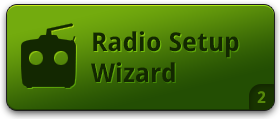
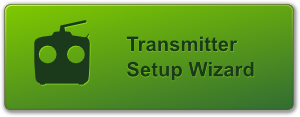
OP-1556 New "transmitter Setup Wizard" button, fixed mouseover. Updated text and translations

diff --git a/ground/openpilotgcs/share/openpilotgcs/translations/openpilotgcs_fr.ts b/ground/openpilotgcs/share/openpilotgcs/translations/openpilotgcs_fr.ts
@@ -3792,13 +3792,28 @@ uniquement lorsque les valeurs changent</translation>
         <translation>Flot Données GPS</translation>
     </message>
     <message>
-        <location/>
         <source>Displays the SNR for each detected sat.
 Satellite number (PRN) is displayed inside the green bar.
 Sat SNR is displayed above (in dBHz)</source>
-        <translation>Affiche le SNR pour chaque satellite détecté.
+        <translation type="vanished">Affiche le SNR pour chaque satellite détecté.
 Le numéro du satellite (PRN) est affiché sur une barre verte.
 Le SNR du satellite est affiché au-dessus (en dBHz)</translation>
+    </message>
+    <message>
+        <location/>
+        <source>&lt;html&gt;&lt;head/&gt;&lt;body&gt;&lt;p&gt;Displays the SNR for each detected sat. Satellite number (PRN) is displayed inside the green bar (GPS) or orange bar (SBAS). Sat SNR is displayed above (in dBHz)&lt;/p&gt;&lt;/body&gt;&lt;/html&gt;</source>
+        <translation>&lt;html&gt;&lt;head/&gt;&lt;body&gt;&lt;p&gt;Affiche le SNR pour chaque satellite détecté. Le numéro du satellite (PRN) est affiché sur une barre verte (GPS) ou orange (SBAS). Le SNR du satellite est affiché au-dessus (en dBHz)</translation>
+    </message>
+    <message>
+        <location/>
+        <source>Alt :</source>
+        <translation>Alt :</translation>
+    </message>
+    <message>
+        <location/>
+        <source>&lt;html&gt;&lt;head/&gt;&lt;body&gt;&lt;p&gt;Location of GCS on the Earth&lt;/p&gt;&lt;/body&gt;&lt;/html&gt;</source>
+        <extracomment>Location of GCS on the Earth</extracomment>
+        <translation>Position sur la terre</translation>
     </message>
 </context>
 <context>
@@ -9520,14 +9535,14 @@ Veuillez sélectionner le type de multirotor désiré pour la configuration ci-d
     </message>
     <message>
         <location/>
-        <location filename="../../../src/plugins/setupwizard/pages/outputcalibrationpage.cpp" line="+376"/>
-        <location line="+88"/>
+        <location filename="../../../src/plugins/setupwizard/pages/outputcalibrationpage.cpp" line="+375"/>
+        <location line="+90"/>
         <source>Start</source>
         <translation>Démarrer</translation>
     </message>
     <message>
-        <location filename="../../../src/plugins/setupwizard/pages/outputcalibrationpage.cpp" line="-88"/>
-        <location line="+88"/>
+        <location filename="../../../src/plugins/setupwizard/pages/outputcalibrationpage.cpp" line="-90"/>
+        <location line="+90"/>
         <source>Stop</source>
         <translation>Arrêter</translation>
     </message>
@@ -13489,7 +13504,6 @@ loaded in the current workspace.</source>
 Configuration n&apos;est pas chargé dans l&apos;espace de travail actuel.</translation>
     </message>
     <message>
-        <location filename="../../../src/plugins/setupwizard/pages/opendpage.ui"/>
         <source>&lt;!DOCTYPE HTML PUBLIC &quot;-//W3C//DTD HTML 4.0//EN&quot; &quot;http://www.w3.org/TR/REC-html40/strict.dtd&quot;&gt;
 &lt;html&gt;&lt;head&gt;&lt;meta name=&quot;qrichtext&quot; content=&quot;1&quot; /&gt;&lt;style type=&quot;text/css&quot;&gt;
 p, li { white-space: pre-wrap; }
@@ -13498,7 +13512,7 @@ p, li { white-space: pre-wrap; }
 &lt;p align=&quot;center&quot; style=&quot; margin-top:12px; margin-bottom:12px; margin-left:0px; margin-right:0px; -qt-block-indent:0; text-indent:0px;&quot;&gt;&lt;span style=&quot; font-family:&apos;MS Shell Dlg 2&apos;; font-size:12pt; font-weight:600;&quot;&gt;Setup wizard is completed.&lt;/span&gt;&lt;/p&gt;
 &lt;p style=&quot; margin-top:12px; margin-bottom:12px; margin-left:0px; margin-right:0px; -qt-block-indent:0; text-indent:0px;&quot;&gt;&lt;span style=&quot; font-family:&apos;MS Shell Dlg 2&apos;; font-size:10pt;&quot;&gt;This part of the setup procedure is now complete and you are one step away from completing the setup of your OpenPilot controller.&lt;/span&gt;&lt;/p&gt;
 &lt;p style=&quot; margin-top:12px; margin-bottom:12px; margin-left:0px; margin-right:0px; -qt-block-indent:0; text-indent:0px;&quot;&gt;&lt;span style=&quot; font-family:&apos;MS Shell Dlg 2&apos;; font-size:10pt;&quot;&gt;To complete the setup please click the Radio Setup Wizard button below to close this wizard and go directly to the Radio Setup Wizard.&lt;/span&gt;&lt;/p&gt;&lt;/body&gt;&lt;/html&gt;</source>
-        <translation>&lt;!DOCTYPE HTML PUBLIC &quot;-//W3C//DTD HTML 4.0//EN&quot; &quot;http://www.w3.org/TR/REC-html40/strict.dtd&quot;&gt;
+        <translation type="vanished">&lt;!DOCTYPE HTML PUBLIC &quot;-//W3C//DTD HTML 4.0//EN&quot; &quot;http://www.w3.org/TR/REC-html40/strict.dtd&quot;&gt;
 &lt;html&gt;&lt;head&gt;&lt;meta name=&quot;qrichtext&quot; content=&quot;1&quot; /&gt;&lt;style type=&quot;text/css&quot;&gt;
 p, li { white-space: pre-wrap; }
 &lt;/style&gt;&lt;/head&gt;&lt;body style=&quot; font-family:&apos;Cantarell&apos;; font-size:11pt; font-weight:400; font-style:normal;&quot;&gt;
@@ -13506,6 +13520,25 @@ p, li { white-space: pre-wrap; }
 &lt;p align=&quot;center&quot; style=&quot; margin-top:12px; margin-bottom:12px; margin-left:0px; margin-right:0px; -qt-block-indent:0; text-indent:0px;&quot;&gt;&lt;span style=&quot; font-family:&apos;MS Shell Dlg 2&apos;; font-size:12pt; font-weight:600;&quot;&gt;L&apos;Assistant de Configuration est terminé.&lt;/span&gt;&lt;/p&gt;
 &lt;p style=&quot; margin-top:12px; margin-bottom:12px; margin-left:0px; margin-right:0px; -qt-block-indent:0; text-indent:0px;&quot;&gt;&lt;span style=&quot; font-family:&apos;MS Shell Dlg 2&apos;; font-size:10pt;&quot;&gt;Cette partie de la procédure de configuration est maintenant terminée et il vous reste une étape pour arriver au terme de la configuration de votre contrôleur OpenPilot.&lt;/span&gt;&lt;/p&gt;
 &lt;p style=&quot; margin-top:12px; margin-bottom:12px; margin-left:0px; margin-right:0px; -qt-block-indent:0; text-indent:0px;&quot;&gt;&lt;span style=&quot; font-family:&apos;MS Shell Dlg 2&apos;; font-size:10pt;&quot;&gt;Pour terminer la configuration veuillez appuyer sur le bouton ci-dessous pour fermer cet assistant et aller directement à l&apos;Assistant de Configuration Radio.&lt;/span&gt;&lt;/p&gt;&lt;/body&gt;&lt;/html&gt;</translation>
+    </message>
+    <message>
+        <location filename="../../../src/plugins/setupwizard/pages/opendpage.ui"/>
+        <source>&lt;!DOCTYPE HTML PUBLIC &quot;-//W3C//DTD HTML 4.0//EN&quot; &quot;http://www.w3.org/TR/REC-html40/strict.dtd&quot;&gt;
+&lt;html&gt;&lt;head&gt;&lt;meta name=&quot;qrichtext&quot; content=&quot;1&quot; /&gt;&lt;style type=&quot;text/css&quot;&gt;
+p, li { white-space: pre-wrap; }
+&lt;/style&gt;&lt;/head&gt;&lt;body style=&quot; font-family:&apos;Cantarell&apos;; font-size:11pt; font-weight:400; font-style:normal;&quot;&gt;
+&lt;p align=&quot;center&quot; style=&quot; margin-top:12px; margin-bottom:12px; margin-left:0px; margin-right:0px; -qt-block-indent:0; text-indent:0px;&quot;&gt;&lt;span style=&quot; font-family:&apos;MS Shell Dlg 2&apos;; font-size:12pt; font-weight:600;&quot;&gt;Congratulations!&lt;/span&gt;&lt;/p&gt;
+&lt;p align=&quot;center&quot; style=&quot; margin-top:12px; margin-bottom:12px; margin-left:0px; margin-right:0px; -qt-block-indent:0; text-indent:0px;&quot;&gt;&lt;span style=&quot; font-family:&apos;MS Shell Dlg 2&apos;; font-size:12pt; font-weight:600;&quot;&gt;Setup wizard is completed.&lt;/span&gt;&lt;/p&gt;
+&lt;p style=&quot; margin-top:12px; margin-bottom:12px; margin-left:0px; margin-right:0px; -qt-block-indent:0; text-indent:0px;&quot;&gt;&lt;span style=&quot; font-family:&apos;MS Shell Dlg 2&apos;; font-size:10pt;&quot;&gt;This part of the setup procedure is now complete and you are one step away from completing the setup of your OpenPilot controller.&lt;/span&gt;&lt;/p&gt;
+&lt;p style=&quot; margin-top:12px; margin-bottom:12px; margin-left:0px; margin-right:0px; -qt-block-indent:0; text-indent:0px;&quot;&gt;&lt;span style=&quot; font-family:&apos;MS Shell Dlg 2&apos;; font-size:10pt;&quot;&gt;To complete the setup please click the button below to close this wizard and go directly to the Transmitter Setup Wizard.&lt;/span&gt;&lt;/p&gt;&lt;/body&gt;&lt;/html&gt;</source>
+        <translation>&lt;!DOCTYPE HTML PUBLIC &quot;-//W3C//DTD HTML 4.0//EN&quot; &quot;http://www.w3.org/TR/REC-html40/strict.dtd&quot;&gt;
+&lt;html&gt;&lt;head&gt;&lt;meta name=&quot;qrichtext&quot; content=&quot;1&quot; /&gt;&lt;style type=&quot;text/css&quot;&gt;
+p, li { white-space: pre-wrap; }
+&lt;/style&gt;&lt;/head&gt;&lt;body style=&quot; font-family:&apos;Cantarell&apos;; font-size:11pt; font-weight:400; font-style:normal;&quot;&gt;
+&lt;p align=&quot;center&quot; style=&quot; margin-top:12px; margin-bottom:12px; margin-left:0px; margin-right:0px; -qt-block-indent:0; text-indent:0px;&quot;&gt;&lt;span style=&quot; font-family:&apos;MS Shell Dlg 2&apos;; font-size:12pt; font-weight:600;&quot;&gt;Félicitations !&lt;/span&gt;&lt;/p&gt;
+&lt;p align=&quot;center&quot; style=&quot; margin-top:12px; margin-bottom:12px; margin-left:0px; margin-right:0px; -qt-block-indent:0; text-indent:0px;&quot;&gt;&lt;span style=&quot; font-family:&apos;MS Shell Dlg 2&apos;; font-size:12pt; font-weight:600;&quot;&gt;L&apos;Assistant de Configuration est terminé.&lt;/span&gt;&lt;/p&gt;
+&lt;p style=&quot; margin-top:12px; margin-bottom:12px; margin-left:0px; margin-right:0px; -qt-block-indent:0; text-indent:0px;&quot;&gt;&lt;span style=&quot; font-family:&apos;MS Shell Dlg 2&apos;; font-size:10pt;&quot;&gt;Cette partie de la procédure de configuration est maintenant terminée et il vous reste une étape pour arriver au terme de la configuration de votre contrôleur OpenPilot.&lt;/span&gt;&lt;/p&gt;
+&lt;p style=&quot; margin-top:12px; margin-bottom:12px; margin-left:0px; margin-right:0px; -qt-block-indent:0; text-indent:0px;&quot;&gt;&lt;span style=&quot; font-family:&apos;MS Shell Dlg 2&apos;; font-size:10pt;&quot;&gt;Pour terminer la configuration veuillez appuyer sur le bouton ci-dessous pour fermer cet assistant et aller directement à l&apos;Assistant de Configuration Émetteur.&lt;/span&gt;&lt;/p&gt;&lt;/body&gt;&lt;/html&gt;</translation>
     </message>
 </context>
 <context>
@@ -15172,9 +15205,9 @@ A noter : Pour le GPS OpenPilot v8, veuillez choisir l&apos;option GPS U-Blox.</
     <message>
         <location filename="../../../src/plugins/setupwizard/pages/esccalibrationpage.cpp" line="+49"/>
         <location line="+49"/>
-        <location line="+31"/>
+        <location line="+32"/>
         <location line="+9"/>
-        <location line="+10"/>
+        <location line="+11"/>
         <source>%1 µs</source>
         <translation></translation>
     </message>
